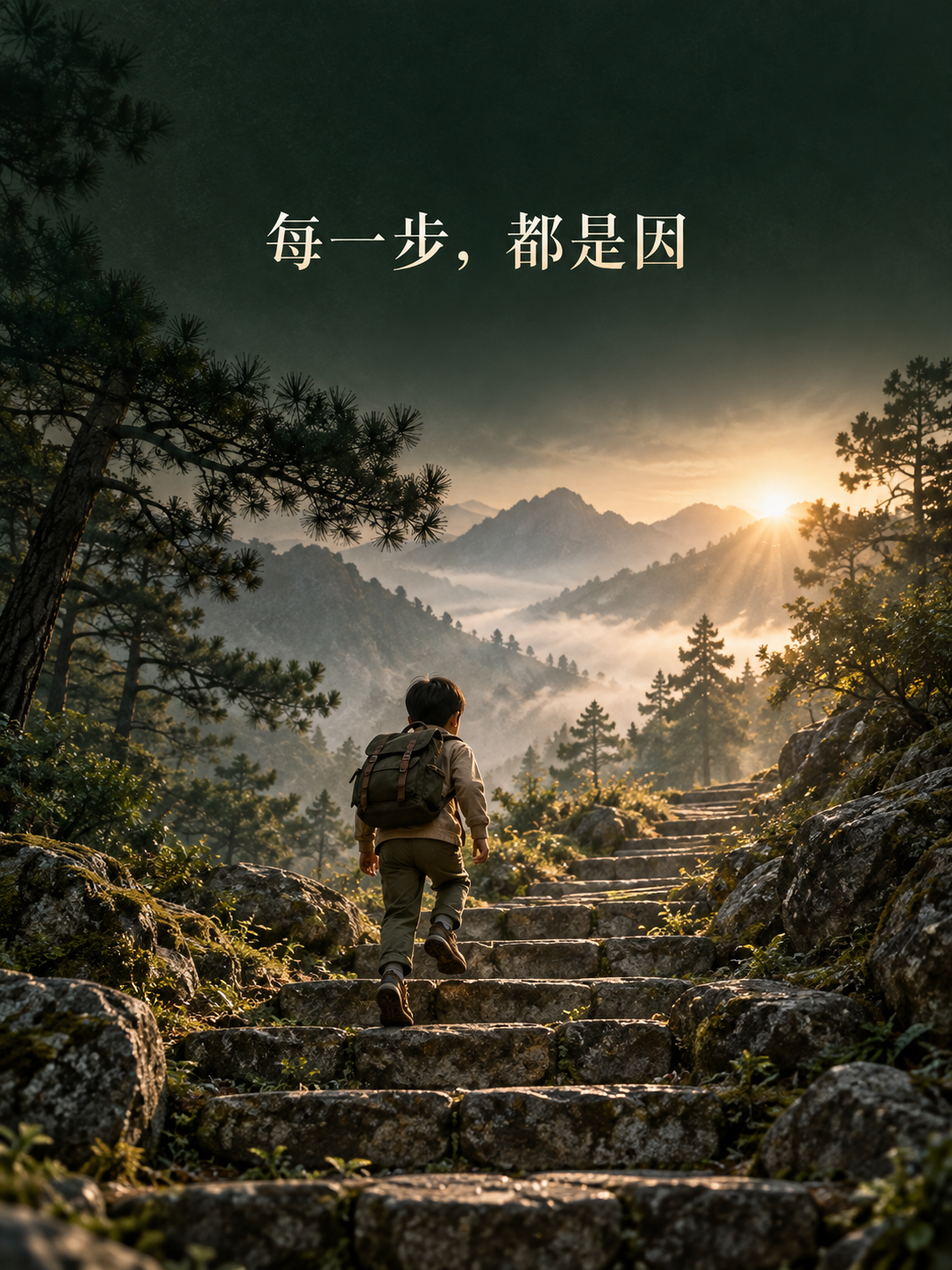
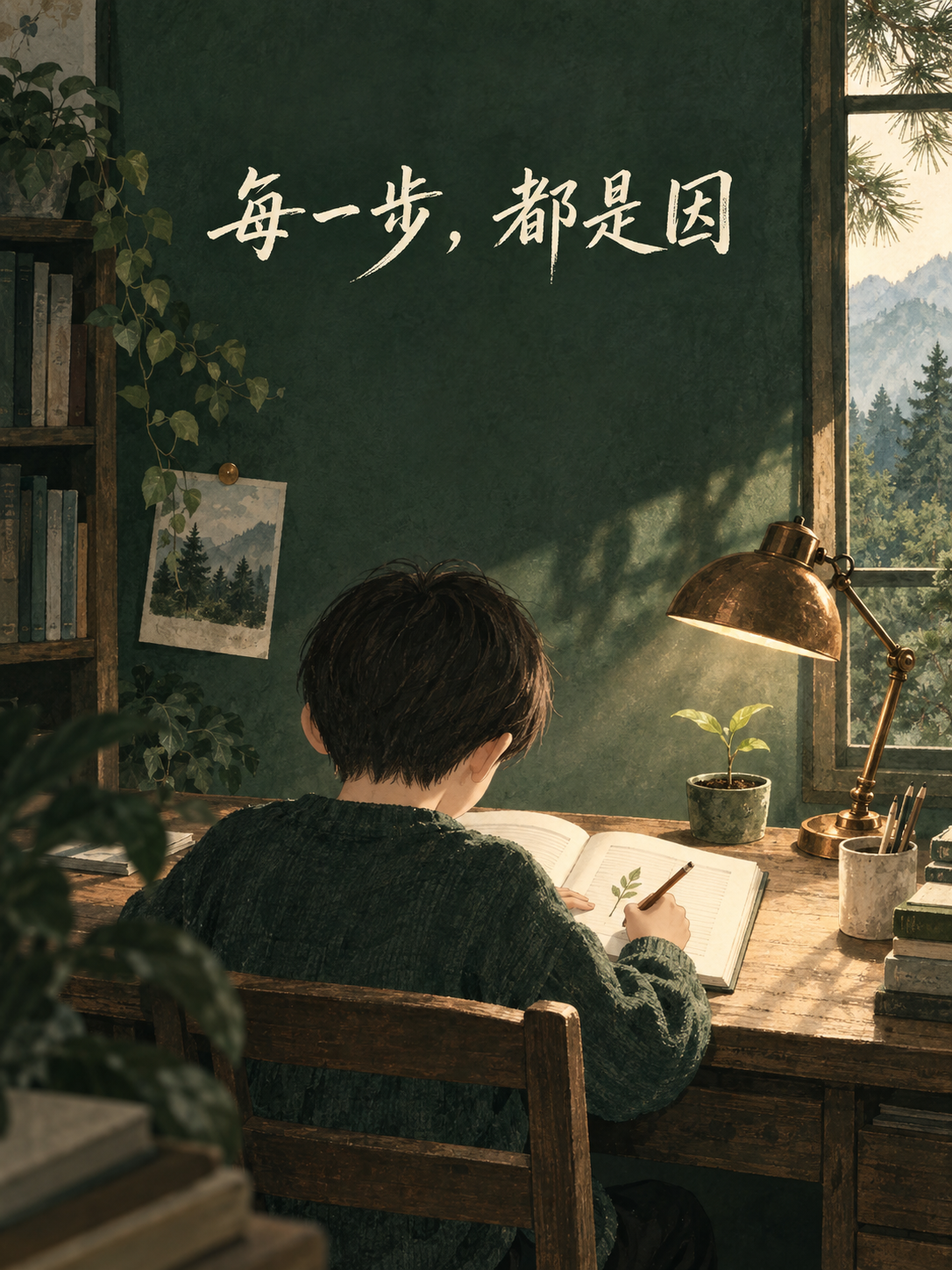
Refresh article cover and illustrations

diff --git a/articles/2026-09-29-fufa-zhuanzhu-dangxia/wechat.html b/articles/2026-09-29-fufa-zhuanzhu-dangxia/wechat.html
@@ -3,21 +3,21 @@
 <head>
   <meta charset="utf-8">
   <meta name="viewport" content="width=device-width, initial-scale=1">
-  <title>为什么佛法里最不起眼的修行，反而最有复利？</title>
+  <title>傻孩童误把抄袭当捷径 积善果当下步步皆修行。</title>
 </head>
 <body style="margin:0;background-color:#F4F4EE;">
   <div style="max-width:677px;margin:0 auto;padding:0 0 36px;background-color:#FFFFFF;">
-<p style="margin:0 0 24px;line-height:0;"><img src="https://lumisum.github.io/wulai/articles/2026-09-29-fufa-zhuanzhu-dangxia/images/cover.png" alt="为什么佛法里最不起眼的修行，反而最有复利？" style="display:block;width:100%;max-width:100%;height:auto;margin:0 auto;"></p>
+<p style="margin:0 0 24px;line-height:0;"><img src="https://lumisum.github.io/wulai/articles/2026-09-29-fufa-zhuanzhu-dangxia/images/cover.png" alt="傻孩童误把抄袭当捷径 积善果当下步步皆修行。" style="display:block;width:100%;max-width:100%;height:auto;margin:0 auto;"></p>
 <div style="padding:0 24px 8px;">
 <p style="margin:2px 0 12px;color:#8C724C;font-size:12px;line-height:1.5;letter-spacing:2px;text-align:center;">无来 · 修学随笔</p>
-<p style="margin:0 auto 12px;color:#18372F;font-size:24px;font-weight:700;line-height:1.5;text-align:center;letter-spacing:0.4px;">为什么佛法里最不起眼的修行，反而最有复利？</p>
+<p style="margin:0 auto 12px;color:#18372F;font-size:24px;font-weight:700;line-height:1.5;text-align:center;letter-spacing:0.4px;">傻孩童误把抄袭当捷径 积善果当下步步皆修行。</p>
 <p style="margin:0 auto 8px;color:#68736A;font-size:14px;line-height:1.8;text-align:center;">从孩子制作《朝花夕拾》读后感图文的一次经历说起，体会专注当下如何种下能力之因，让结果随因缘成熟。</p>
 <p style="margin:14px auto 24px;text-align:center;line-height:0;"><img src="https://lumisum.github.io/wulai/assets/wulai-wechat-divider.png" alt="" style="display:block;width:100%;max-width:100%;height:auto;margin:0 auto;"></p>
 <p style="margin:0 0 20px;color:#354039;font-size:15px;line-height:1.95;letter-spacing:0.25px;">前几天，孩子学校布置了一项关于《朝花夕拾》的作业。要求并不只是写几句读后感，而是通过图文并茂的方式，把自己对鲁迅以及《朝花夕拾》的理解表达出来。这个任务其实挺有意思，因为它不只是考孩子画画，也不只是考他会不会摘抄几句话，而是要先读进去，再理解，再把理解转化成自己的表达。</p>
 <p style="margin:0 0 20px;color:#354039;font-size:15px;line-height:1.95;letter-spacing:0.25px;">但孩子的第一反应很简单。他从网上找了一张类似的作业，然后基本照着那张图重新画了一遍。</p>
 <p style="margin:0 0 20px;color:#354039;font-size:15px;line-height:1.95;letter-spacing:0.25px;">作业当然也能交。表面上看，这件事情完成了。但我看着那张画，总觉得哪里不对。</p>
 <p style="margin:0 0 20px;color:#354039;font-size:15px;line-height:1.95;letter-spacing:0.25px;">后来我慢慢想明白了：问题其实不在于他画得好不好，也不在于是不是参考了别人，而在于他几乎绕过了这件事情真正有价值的部分。他完成了任务，却没有真正进入这个任务。</p>
-<p style="margin:26px 0;"><img src="https://lumisum.github.io/wulai/articles/2026-09-29-fufa-zhuanzhu-dangxia/images/01.png" alt="图片文字“读过，才成为自己的”，孩子读书后停下来思考，并在空白笔记本上写下自己的感受" style="display:block;width:100%;max-width:100%;height:auto;margin:0 auto;"></p>
+<p style="margin:26px 0;"><img src="https://lumisum.github.io/wulai/articles/2026-09-29-fufa-zhuanzhu-dangxia/images/01.png" alt="图片文字“抄得像，不等于读懂”，孩子面对书本与自己的空白页面，停下来思考" style="display:block;width:100%;max-width:100%;height:auto;margin:0 auto;"></p>
 <p style="margin:0 0 20px;color:#354039;font-size:15px;line-height:1.95;letter-spacing:0.25px;">这让我又想起《金刚经》第一品。佛陀到了吃饭的时候，著衣持钵，进入舍卫城乞食。乞食回来以后吃饭，收好衣钵，洗足，然后敷座而坐。</p>
 <p style="margin:0 0 20px;color:#354039;font-size:15px;line-height:1.95;letter-spacing:0.25px;">这一段看起来实在太普通了。没有讲大道理，没有讲什么玄妙境界，甚至连佛法都还没有正式开始说。但我现在越来越觉得，这种普通，可能恰恰是佛法最容易被忽略的一部分。</p>
 <p style="margin:0 0 20px;color:#354039;font-size:15px;line-height:1.95;letter-spacing:0.25px;">吃饭的时候，就把饭吃好；走路的时候，就把路走好；洗足的时候，就把脚洗好。眼前是什么事，心就进入什么事，不急着逃开，也不急着赶到下一件事。这听起来很简单，可真正做到并不容易。</p>
@@ -25,7 +25,7 @@
 <p style="margin:0 0 20px;color:#354039;font-size:15px;line-height:1.95;letter-spacing:0.25px;">事情虽然一件接一件地完成了，但人的心很少真正进入其中。久而久之，就形成了一种很奇怪的生活方式：每天都很忙，但真正沉淀下来的东西并不多。</p>
 <p style="margin:0 0 20px;color:#354039;font-size:15px;line-height:1.95;letter-spacing:0.25px;">孩子的那张《朝花夕拾》作业，其实只是一个很小的例子。如果他愿意真正把这件事情做进去，先认真读一点鲁迅，想一想《朝花夕拾》里哪些人物、哪些故事让自己印象最深，再决定画什么、写什么，那么最后那张图也许未必比网上的模板漂亮，但那会是一张真正属于他的作品。</p>
 <p style="margin:0 0 20px;color:#354039;font-size:15px;line-height:1.95;letter-spacing:0.25px;">更重要的是，在这个过程中，他训练的并不只是一次作业。他训练的是阅读、理解、判断、表达和专注。这几种能力不会随着作业交上去以后就消失。下一次读课文的时候还会用到，下一次写作文的时候还会用到，再往后做题、考试、处理问题，也会继续调用。</p>
-<p style="margin:26px 0;"><img src="https://lumisum.github.io/wulai/articles/2026-09-29-fufa-zhuanzhu-dangxia/images/02.png" alt="图片文字“每一步，都是因”，背着书包的孩子沿着青松林间的石阶一步一步向前" style="display:block;width:100%;max-width:100%;height:auto;margin:0 auto;"></p>
+<p style="margin:26px 0;"><img src="https://lumisum.github.io/wulai/articles/2026-09-29-fufa-zhuanzhu-dangxia/images/02.png" alt="图片文字“每一步，都是因”，孩子在书桌前专心读写，窗边有一株新芽" style="display:block;width:100%;max-width:100%;height:auto;margin:0 auto;"></p>
 <p style="margin:0 0 20px;color:#354039;font-size:15px;line-height:1.95;letter-spacing:0.25px;">所以我越来越觉得，一个人真正的“复利”，很多时候并不是多学了一个技巧，而是每一次做事情的时候，都在悄悄塑造下一次做事情的自己。今天认真完成一次阅读，明天理解能力就多了一点；今天认真思考一道题，下一次面对陌生问题时，就多了一点耐心；今天习惯了遇到事情先自己想，而不是先找答案，以后就更容易形成独立判断。</p>
 <p style="margin:0 0 20px;color:#354039;font-size:15px;line-height:1.95;letter-spacing:0.25px;">反过来也一样。今天糊弄一次，明天遇到类似问题，还会想怎么最快绕过去。时间长了，“敷衍”也会形成自己的复利。</p>
 <p style="margin:0 0 20px;color:#354039;font-size:15px;line-height:1.95;letter-spacing:0.25px;">这其实很像佛法里讲的因果。我们经常把因果想得很远，好像一定要等很久以后才会显现。其实很多因果每天都在发生。你做一件事情的方式，本身就在成为下一件事情的因。</p>
@@ -35,7 +35,7 @@
 <p style="margin:0 0 20px;color:#354039;font-size:15px;line-height:1.95;letter-spacing:0.25px;">这样的人反而容易平静。因为真正让人焦虑的，很多时候并不是学习本身，而是心总在提前追逐那个还没有到来的结果。怕成绩下降，怕老师批评，怕父母失望，怕以后考不上好学校。结果还没有发生，心已经被未来拉走了。</p>
 <p style="margin:0 0 20px;color:#354039;font-size:15px;line-height:1.95;letter-spacing:0.25px;">佛法真正有意思的地方就在这里。它并不是告诉我们不要努力，也不是说结果完全不重要。而是把顺序重新摆正。<strong style="color:#315B49;background-color:#EFF2EA;font-weight:700;padding:1px 3px;">先把因做好，再让果自然发生。</strong></p>
 <p style="margin:0 0 20px;color:#354039;font-size:15px;line-height:1.95;letter-spacing:0.25px;">做事情的时候尽心，结果来的时候接受。这和“无住”并不矛盾。<strong style="color:#315B49;background-color:#EFF2EA;font-weight:700;padding:1px 3px;">不住于结果，不等于不认真做事；恰恰相反，它让一个人可以把原本花在焦虑结果上的精力，重新放回当下。</strong></p>
-<p style="margin:26px 0;"><img src="https://lumisum.github.io/wulai/articles/2026-09-29-fufa-zhuanzhu-dangxia/images/03.png" alt="图片文字“不住于果，专注当下”，孩子和家长各自在清晨书房专注阅读与写作" style="display:block;width:100%;max-width:100%;height:auto;margin:0 auto;"></p>
+<p style="margin:26px 0;"><img src="https://lumisum.github.io/wulai/articles/2026-09-29-fufa-zhuanzhu-dangxia/images/03.png" alt="图片文字“事上尽心，果上随缘”，家长陪孩子安静完成读后感图文" style="display:block;width:100%;max-width:100%;height:auto;margin:0 auto;"></p>
 <p style="margin:0 0 20px;color:#354039;font-size:15px;line-height:1.95;letter-spacing:0.25px;">我越来越喜欢一句很简单的理解：<strong style="color:#315B49;background-color:#EFF2EA;font-weight:700;padding:1px 3px;">事上尽心，果上随缘。</strong>“随缘”不是敷衍，更不是“差不多就行”。真正的随缘，是该做的事情已经认真做了以后，不再死死抓住结果。孩子认真复习了，考试的时候就认真考；考完以后，九十分也好，八十分也好，再去看哪里还能进步。不是因为一次成绩，就否定自己，也不是因为一次好成绩，就以为从此万事大吉。</p>
 <p style="margin:0 0 20px;color:#354039;font-size:15px;line-height:1.95;letter-spacing:0.25px;">这其实是一种非常稳定的学习状态。而这种状态，我觉得比单纯追求高分更珍贵。因为学校阶段最终会结束，可一个人怎样面对眼前的事情，会跟他很多年。</p>
 <p style="margin:0 0 20px;color:#354039;font-size:15px;line-height:1.95;letter-spacing:0.25px;">以后进入大学、进入工作、进入家庭，依然如此。认真听一个人说话，认真做一份工作，认真处理一个问题，认真完成一个承诺。</p>

diff --git a/articles/2026-09-29-fufa-zhuanzhu-dangxia/wechat.md b/articles/2026-09-29-fufa-zhuanzhu-dangxia/wechat.md
@@ -1,21 +1,21 @@
 <!--
 无来微信公众号图文排版稿。封面已置于正文开头；公众号标题和摘要字段可另行填写。
-标题：为什么佛法里最不起眼的修行，反而最有复利？
+标题：傻孩童误把抄袭当捷径 积善果当下步步皆修行。
 摘要：从孩子制作《朝花夕拾》读后感图文的一次经历说起，体会专注当下如何种下能力之因，让结果随因缘成熟。
 正文图片和装饰图为网站公开链接；粘贴后请检查图片，必要时在公众号后台重新上传。
 -->
 
-<p style="margin:0 0 24px;line-height:0;"><img src="https://lumisum.github.io/wulai/articles/2026-09-29-fufa-zhuanzhu-dangxia/images/cover.png" alt="为什么佛法里最不起眼的修行，反而最有复利？" style="display:block;width:100%;max-width:100%;height:auto;margin:0 auto;"></p>
+<p style="margin:0 0 24px;line-height:0;"><img src="https://lumisum.github.io/wulai/articles/2026-09-29-fufa-zhuanzhu-dangxia/images/cover.png" alt="傻孩童误把抄袭当捷径 积善果当下步步皆修行。" style="display:block;width:100%;max-width:100%;height:auto;margin:0 auto;"></p>
 <div style="padding:0 24px 8px;">
 <p style="margin:2px 0 12px;color:#8C724C;font-size:12px;line-height:1.5;letter-spacing:2px;text-align:center;">无来 · 修学随笔</p>
-<p style="margin:0 auto 12px;color:#18372F;font-size:24px;font-weight:700;line-height:1.5;text-align:center;letter-spacing:0.4px;">为什么佛法里最不起眼的修行，反而最有复利？</p>
+<p style="margin:0 auto 12px;color:#18372F;font-size:24px;font-weight:700;line-height:1.5;text-align:center;letter-spacing:0.4px;">傻孩童误把抄袭当捷径 积善果当下步步皆修行。</p>
 <p style="margin:0 auto 8px;color:#68736A;font-size:14px;line-height:1.8;text-align:center;">从孩子制作《朝花夕拾》读后感图文的一次经历说起，体会专注当下如何种下能力之因，让结果随因缘成熟。</p>
 <p style="margin:14px auto 24px;text-align:center;line-height:0;"><img src="https://lumisum.github.io/wulai/assets/wulai-wechat-divider.png" alt="" style="display:block;width:100%;max-width:100%;height:auto;margin:0 auto;"></p>
 <p style="margin:0 0 20px;color:#354039;font-size:15px;line-height:1.95;letter-spacing:0.25px;">前几天，孩子学校布置了一项关于《朝花夕拾》的作业。要求并不只是写几句读后感，而是通过图文并茂的方式，把自己对鲁迅以及《朝花夕拾》的理解表达出来。这个任务其实挺有意思，因为它不只是考孩子画画，也不只是考他会不会摘抄几句话，而是要先读进去，再理解，再把理解转化成自己的表达。</p>
 <p style="margin:0 0 20px;color:#354039;font-size:15px;line-height:1.95;letter-spacing:0.25px;">但孩子的第一反应很简单。他从网上找了一张类似的作业，然后基本照着那张图重新画了一遍。</p>
 <p style="margin:0 0 20px;color:#354039;font-size:15px;line-height:1.95;letter-spacing:0.25px;">作业当然也能交。表面上看，这件事情完成了。但我看着那张画，总觉得哪里不对。</p>
 <p style="margin:0 0 20px;color:#354039;font-size:15px;line-height:1.95;letter-spacing:0.25px;">后来我慢慢想明白了：问题其实不在于他画得好不好，也不在于是不是参考了别人，而在于他几乎绕过了这件事情真正有价值的部分。他完成了任务，却没有真正进入这个任务。</p>
-<p style="margin:26px 0;"><img src="https://lumisum.github.io/wulai/articles/2026-09-29-fufa-zhuanzhu-dangxia/images/01.png" alt="图片文字“读过，才成为自己的”，孩子读书后停下来思考，并在空白笔记本上写下自己的感受" style="display:block;width:100%;max-width:100%;height:auto;margin:0 auto;"></p>
+<p style="margin:26px 0;"><img src="https://lumisum.github.io/wulai/articles/2026-09-29-fufa-zhuanzhu-dangxia/images/01.png" alt="图片文字“抄得像，不等于读懂”，孩子面对书本与自己的空白页面，停下来思考" style="display:block;width:100%;max-width:100%;height:auto;margin:0 auto;"></p>
 <p style="margin:0 0 20px;color:#354039;font-size:15px;line-height:1.95;letter-spacing:0.25px;">这让我又想起《金刚经》第一品。佛陀到了吃饭的时候，著衣持钵，进入舍卫城乞食。乞食回来以后吃饭，收好衣钵，洗足，然后敷座而坐。</p>
 <p style="margin:0 0 20px;color:#354039;font-size:15px;line-height:1.95;letter-spacing:0.25px;">这一段看起来实在太普通了。没有讲大道理，没有讲什么玄妙境界，甚至连佛法都还没有正式开始说。但我现在越来越觉得，这种普通，可能恰恰是佛法最容易被忽略的一部分。</p>
 <p style="margin:0 0 20px;color:#354039;font-size:15px;line-height:1.95;letter-spacing:0.25px;">吃饭的时候，就把饭吃好；走路的时候，就把路走好；洗足的时候，就把脚洗好。眼前是什么事，心就进入什么事，不急着逃开，也不急着赶到下一件事。这听起来很简单，可真正做到并不容易。</p>
@@ -23,7 +23,7 @@
 <p style="margin:0 0 20px;color:#354039;font-size:15px;line-height:1.95;letter-spacing:0.25px;">事情虽然一件接一件地完成了，但人的心很少真正进入其中。久而久之，就形成了一种很奇怪的生活方式：每天都很忙，但真正沉淀下来的东西并不多。</p>
 <p style="margin:0 0 20px;color:#354039;font-size:15px;line-height:1.95;letter-spacing:0.25px;">孩子的那张《朝花夕拾》作业，其实只是一个很小的例子。如果他愿意真正把这件事情做进去，先认真读一点鲁迅，想一想《朝花夕拾》里哪些人物、哪些故事让自己印象最深，再决定画什么、写什么，那么最后那张图也许未必比网上的模板漂亮，但那会是一张真正属于他的作品。</p>
 <p style="margin:0 0 20px;color:#354039;font-size:15px;line-height:1.95;letter-spacing:0.25px;">更重要的是，在这个过程中，他训练的并不只是一次作业。他训练的是阅读、理解、判断、表达和专注。这几种能力不会随着作业交上去以后就消失。下一次读课文的时候还会用到，下一次写作文的时候还会用到，再往后做题、考试、处理问题，也会继续调用。</p>
-<p style="margin:26px 0;"><img src="https://lumisum.github.io/wulai/articles/2026-09-29-fufa-zhuanzhu-dangxia/images/02.png" alt="图片文字“每一步，都是因”，背着书包的孩子沿着青松林间的石阶一步一步向前" style="display:block;width:100%;max-width:100%;height:auto;margin:0 auto;"></p>
+<p style="margin:26px 0;"><img src="https://lumisum.github.io/wulai/articles/2026-09-29-fufa-zhuanzhu-dangxia/images/02.png" alt="图片文字“每一步，都是因”，孩子在书桌前专心读写，窗边有一株新芽" style="display:block;width:100%;max-width:100%;height:auto;margin:0 auto;"></p>
 <p style="margin:0 0 20px;color:#354039;font-size:15px;line-height:1.95;letter-spacing:0.25px;">所以我越来越觉得，一个人真正的“复利”，很多时候并不是多学了一个技巧，而是每一次做事情的时候，都在悄悄塑造下一次做事情的自己。今天认真完成一次阅读，明天理解能力就多了一点；今天认真思考一道题，下一次面对陌生问题时，就多了一点耐心；今天习惯了遇到事情先自己想，而不是先找答案，以后就更容易形成独立判断。</p>
 <p style="margin:0 0 20px;color:#354039;font-size:15px;line-height:1.95;letter-spacing:0.25px;">反过来也一样。今天糊弄一次，明天遇到类似问题，还会想怎么最快绕过去。时间长了，“敷衍”也会形成自己的复利。</p>
 <p style="margin:0 0 20px;color:#354039;font-size:15px;line-height:1.95;letter-spacing:0.25px;">这其实很像佛法里讲的因果。我们经常把因果想得很远，好像一定要等很久以后才会显现。其实很多因果每天都在发生。你做一件事情的方式，本身就在成为下一件事情的因。</p>
@@ -33,7 +33,7 @@
 <p style="margin:0 0 20px;color:#354039;font-size:15px;line-height:1.95;letter-spacing:0.25px;">这样的人反而容易平静。因为真正让人焦虑的，很多时候并不是学习本身，而是心总在提前追逐那个还没有到来的结果。怕成绩下降，怕老师批评，怕父母失望，怕以后考不上好学校。结果还没有发生，心已经被未来拉走了。</p>
 <p style="margin:0 0 20px;color:#354039;font-size:15px;line-height:1.95;letter-spacing:0.25px;">佛法真正有意思的地方就在这里。它并不是告诉我们不要努力，也不是说结果完全不重要。而是把顺序重新摆正。<strong style="color:#315B49;background-color:#EFF2EA;font-weight:700;padding:1px 3px;">先把因做好，再让果自然发生。</strong></p>
 <p style="margin:0 0 20px;color:#354039;font-size:15px;line-height:1.95;letter-spacing:0.25px;">做事情的时候尽心，结果来的时候接受。这和“无住”并不矛盾。<strong style="color:#315B49;background-color:#EFF2EA;font-weight:700;padding:1px 3px;">不住于结果，不等于不认真做事；恰恰相反，它让一个人可以把原本花在焦虑结果上的精力，重新放回当下。</strong></p>
-<p style="margin:26px 0;"><img src="https://lumisum.github.io/wulai/articles/2026-09-29-fufa-zhuanzhu-dangxia/images/03.png" alt="图片文字“不住于果，专注当下”，孩子和家长各自在清晨书房专注阅读与写作" style="display:block;width:100%;max-width:100%;height:auto;margin:0 auto;"></p>
+<p style="margin:26px 0;"><img src="https://lumisum.github.io/wulai/articles/2026-09-29-fufa-zhuanzhu-dangxia/images/03.png" alt="图片文字“事上尽心，果上随缘”，家长陪孩子安静完成读后感图文" style="display:block;width:100%;max-width:100%;height:auto;margin:0 auto;"></p>
 <p style="margin:0 0 20px;color:#354039;font-size:15px;line-height:1.95;letter-spacing:0.25px;">我越来越喜欢一句很简单的理解：<strong style="color:#315B49;background-color:#EFF2EA;font-weight:700;padding:1px 3px;">事上尽心，果上随缘。</strong>“随缘”不是敷衍，更不是“差不多就行”。真正的随缘，是该做的事情已经认真做了以后，不再死死抓住结果。孩子认真复习了，考试的时候就认真考；考完以后，九十分也好，八十分也好，再去看哪里还能进步。不是因为一次成绩，就否定自己，也不是因为一次好成绩，就以为从此万事大吉。</p>
 <p style="margin:0 0 20px;color:#354039;font-size:15px;line-height:1.95;letter-spacing:0.25px;">这其实是一种非常稳定的学习状态。而这种状态，我觉得比单纯追求高分更珍贵。因为学校阶段最终会结束，可一个人怎样面对眼前的事情，会跟他很多年。</p>
 <p style="margin:0 0 20px;color:#354039;font-size:15px;line-height:1.95;letter-spacing:0.25px;">以后进入大学、进入工作、进入家庭，依然如此。认真听一个人说话，认真做一份工作，认真处理一个问题，认真完成一个承诺。</p>

diff --git a/articles/README.md b/articles/README.md
@@ -4,7 +4,7 @@
 
 | 日期 | 文章 | 原文 Markdown | 公众号 HTML | 排版 Markdown |
 | --- | --- | --- | --- | --- |
-| 2026-09-29 | 为什么佛法里最不起眼的修行，反而最有复利？ | [2026-09-29-fufa-zhuanzhu-dangxia/article.md](2026-09-29-fufa-zhuanzhu-dangxia/article.md) | [2026-09-29-fufa-zhuanzhu-dangxia/wechat.html](2026-09-29-fufa-zhuanzhu-dangxia/wechat.html) | [2026-09-29-fufa-zhuanzhu-dangxia/wechat.md](2026-09-29-fufa-zhuanzhu-dangxia/wechat.md) |
+| 2026-09-29 | 傻孩童误把抄袭当捷径 积善果当下步步皆修行。 | [2026-09-29-fufa-zhuanzhu-dangxia/article.md](2026-09-29-fufa-zhuanzhu-dangxia/article.md) | [2026-09-29-fufa-zhuanzhu-dangxia/wechat.html](2026-09-29-fufa-zhuanzhu-dangxia/wechat.html) | [2026-09-29-fufa-zhuanzhu-dangxia/wechat.md](2026-09-29-fufa-zhuanzhu-dangxia/wechat.md) |
 | 2026-09-27 | 佛陀如何让家长每天多出一小时？ | [2026-09-27-fotuo-rang-jiazhang-meitian-duo-yixiaoshi/article.md](2026-09-27-fotuo-rang-jiazhang-meitian-duo-yixiaoshi/article.md) | [2026-09-27-fotuo-rang-jiazhang-meitian-duo-yixiaoshi/wechat.html](2026-09-27-fotuo-rang-jiazhang-meitian-duo-yixiaoshi/wechat.html) | [2026-09-27-fotuo-rang-jiazhang-meitian-duo-yixiaoshi/wechat.md](2026-09-27-fotuo-rang-jiazhang-meitian-duo-yixiaoshi/wechat.md) |
 | 2026-09-27 | 佛陀如何改变了我的女司机同事？ | [2026-09-27-fotuo-ruhe-gaibian-nv-siji-tongshi/article.md](2026-09-27-fotuo-ruhe-gaibian-nv-siji-tongshi/article.md) | [2026-09-27-fotuo-ruhe-gaibian-nv-siji-tongshi/wechat.html](2026-09-27-fotuo-ruhe-gaibian-nv-siji-tongshi/wechat.html) | [2026-09-27-fotuo-ruhe-gaibian-nv-siji-tongshi/wechat.md](2026-09-27-fotuo-ruhe-gaibian-nv-siji-tongshi/wechat.md) |
 | 2026-09-26 | 佛陀如何教育自己的儿子？ | [2026-09-26-fotuo-jiaoyu-luohouluo/article.md](2026-09-26-fotuo-jiaoyu-luohouluo/article.md) | [2026-09-26-fotuo-jiaoyu-luohouluo/wechat.html](2026-09-26-fotuo-jiaoyu-luohouluo/wechat.html) | [2026-09-26-fotuo-jiaoyu-luohouluo/wechat.md](2026-09-26-fotuo-jiaoyu-luohouluo/wechat.md) |

diff --git a/README.md b/README.md
@@ -51,7 +51,7 @@
 
 | 日期 | 文章 |
 | --- | --- |
-| 2026.09.29 | [为什么佛法里最不起眼的修行，反而最有复利？](https://lumisum.github.io/wulai/articles/insights/2026-09-29-fufa-zhuanzhu-dangxia/) |
+| 2026.09.29 | [傻孩童误把抄袭当捷径 积善果当下步步皆修行。](https://lumisum.github.io/wulai/articles/insights/2026-09-29-fufa-zhuanzhu-dangxia/) |
 | 2026.09.27 | [佛陀如何让家长每天多出一小时？](https://lumisum.github.io/wulai/articles/insights/2026-09-27-fotuo-rang-jiazhang-meitian-duo-yixiaoshi/) |
 | 2026.09.27 | [佛陀如何改变了我的女司机同事？](https://lumisum.github.io/wulai/articles/insights/2026-09-27-fotuo-ruhe-gaibian-nv-siji-tongshi/) |
 | 2026.09.26 | [佛陀如何教育自己的儿子？](https://lumisum.github.io/wulai/articles/insights/2026-09-26-fotuo-jiaoyu-luohouluo/) |
